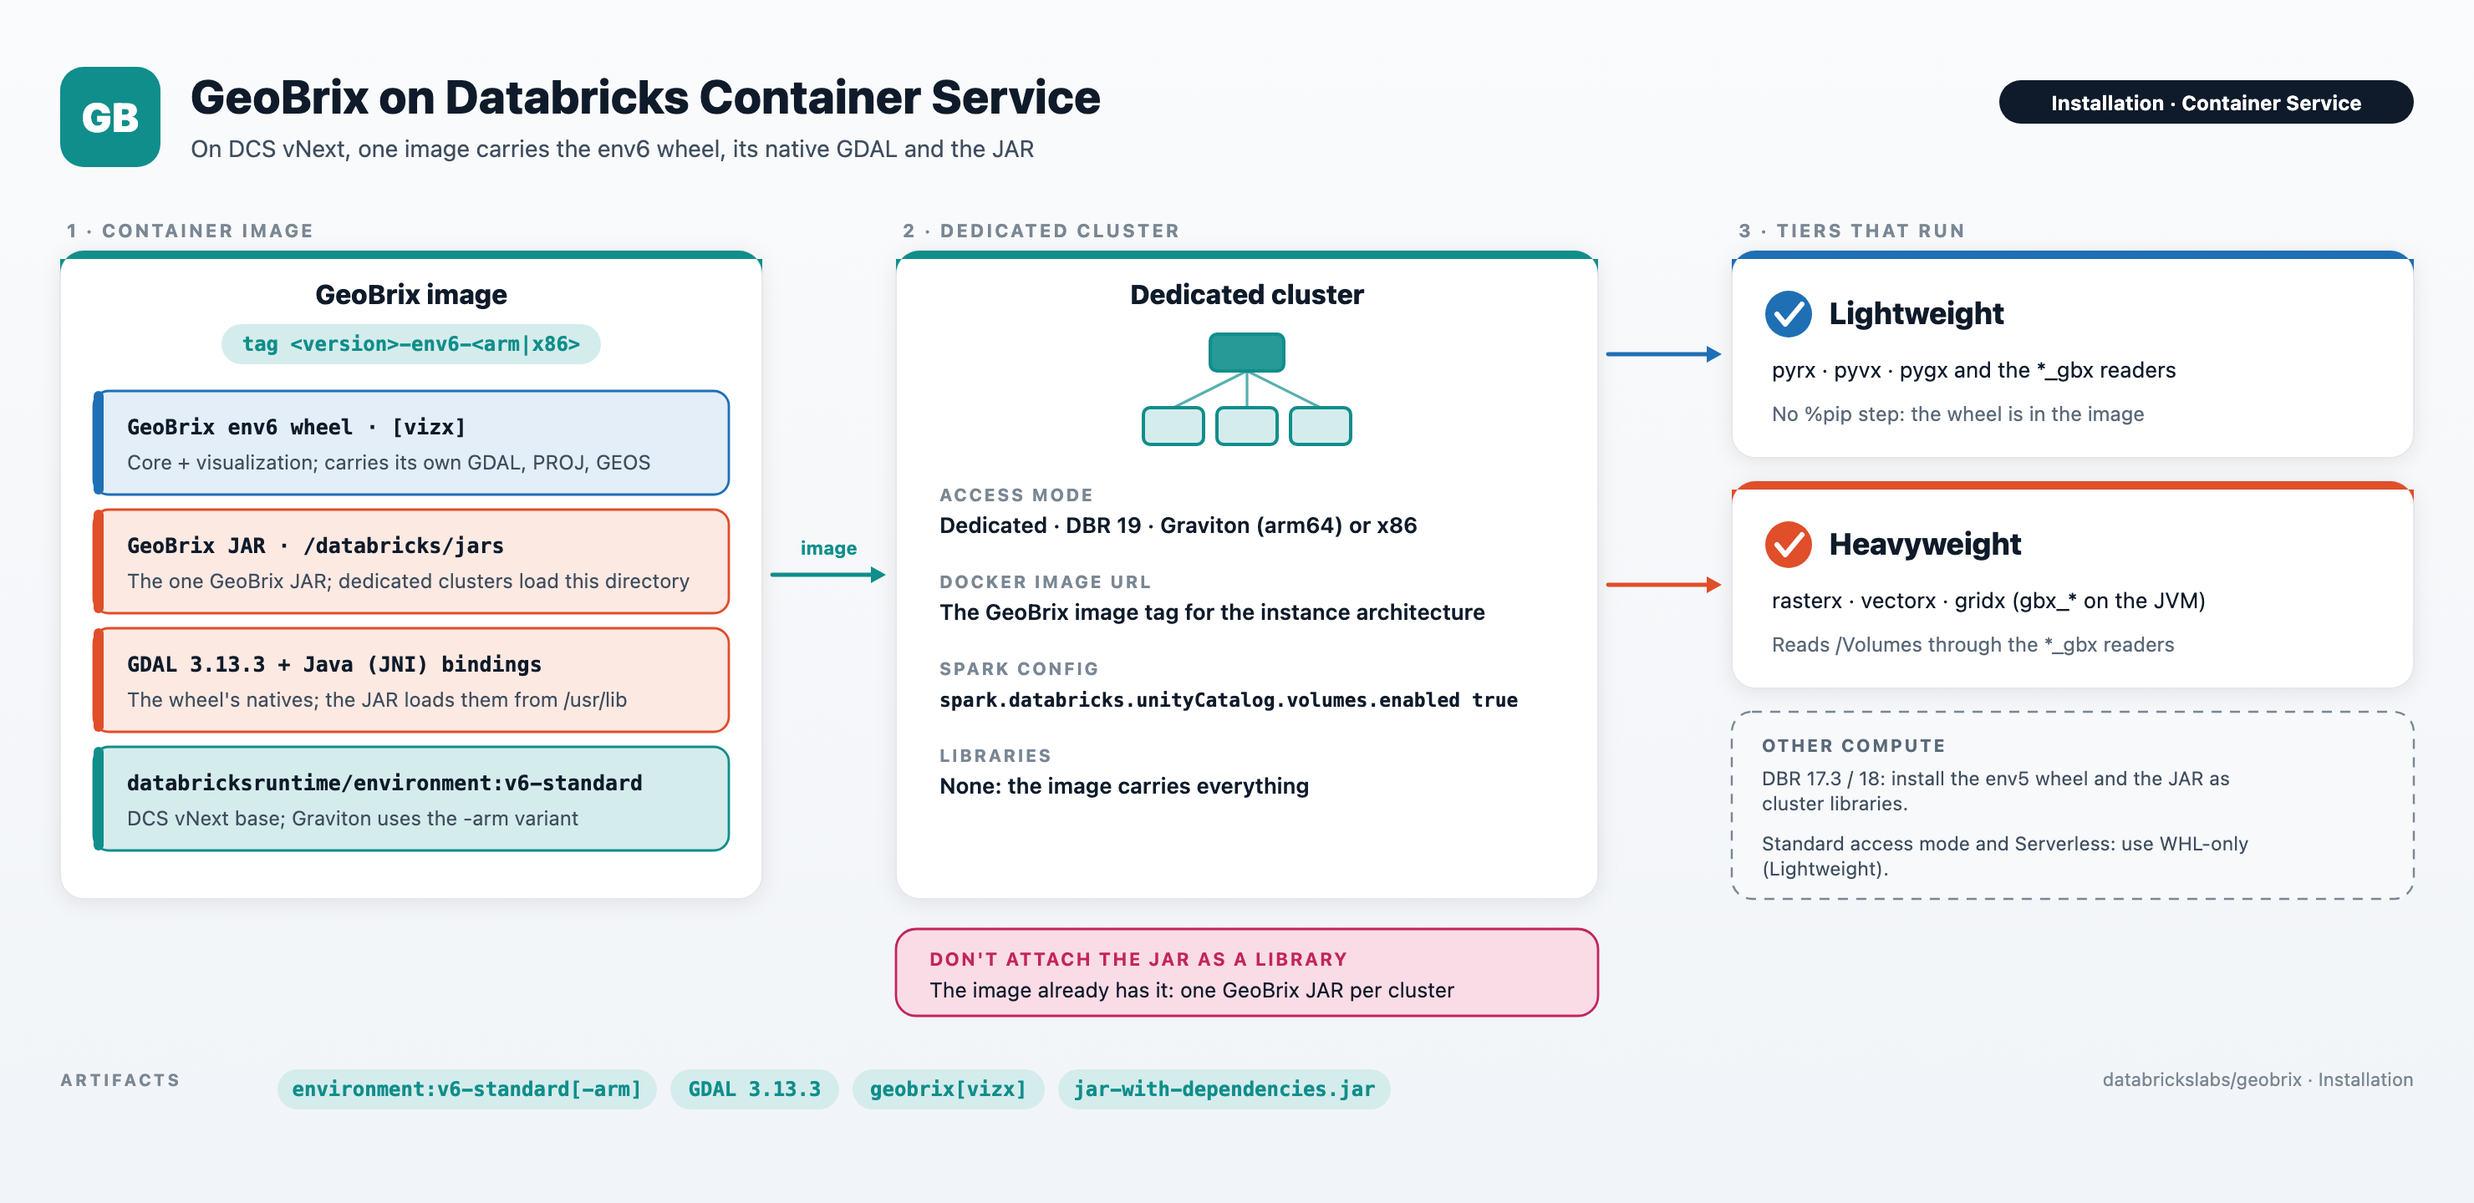
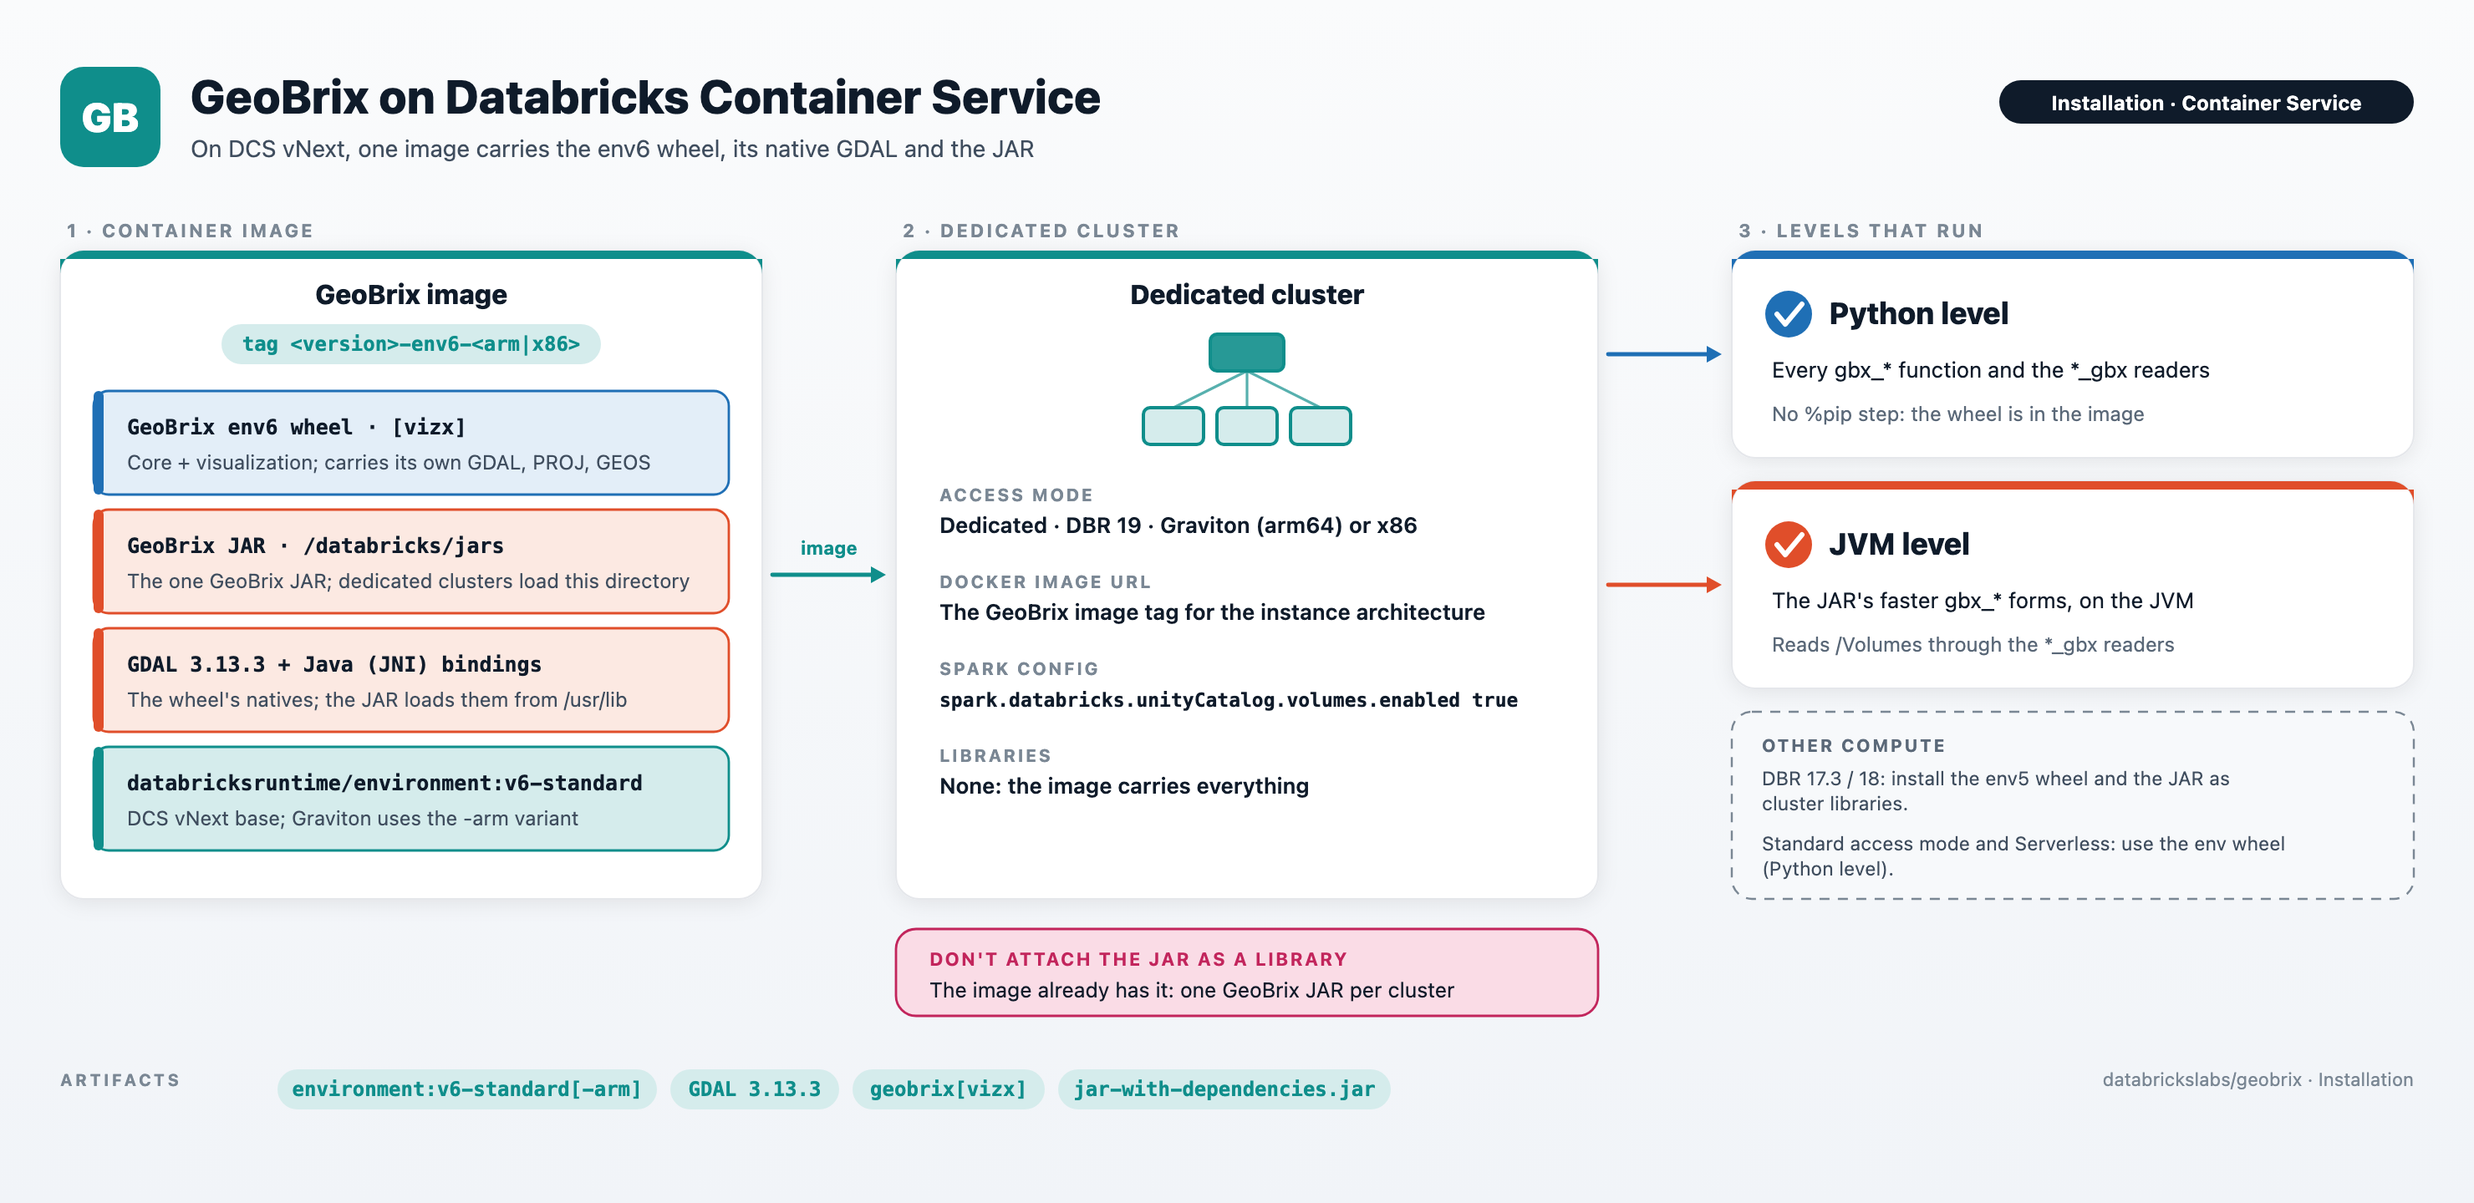
docs: define surfaces, levels and the shorthand in one place
Users met "lightweight" and "heavyweight" as tiers to choose, with
several meanings. The levels page now names the levels (SQL
expression, JVM, Python, Unity Catalog function), separates them from
the surfaces you call, and defines lightweight/heavyweight once as
shorthand in a green tip at the top. Installation and performance
note the shorthand once; the navbar, homepage, README and intro use
level names. The install anchors become #env-wheel and
#env-wheel-and-jar, with the old ids kept as hidden anchors. Rust
coverage: the levels page, installation, README, intro and the four
function entries say where the env wheel's Rust kernels run. The
installation diagrams are regenerated with level chips, and the
unused gbx-tier tab CSS is removed.

diff --git a/docs/src/css/custom.css b/docs/src/css/custom.css
@@ -44,51 +44,10 @@
 
 
 /* --------------------------------------------------------------------------
- * Tier tabs (groupId="gbx-tier"): visually distinguish the HEAVYWEIGHT path.
- *
- * Lightweight is the recommended default and keeps the normal green accent.
- * The tier choice is sticky (shared groupId + ?tier= query param), so a
- * remembered "Heavyweight" selection can otherwise look identical to
- * Lightweight on a fresh page. When Heavyweight (the 2nd tab) is active we
- * recolor the active tab blue (matching the .heavy tier badge, #2545b3) and
- * tint the visible content panel, so "you are on the heavy path" reads at a
- * glance. Scoped to .gbx-tier-tabs so other tab groups are unaffected.
- * ------------------------------------------------------------------------ */
-
-/* Heavyweight tab = 2nd .tabs__item; recolor its active underline + label. */
-.gbx-tier-tabs.tabs .tabs__item:nth-child(2).tabs__item--active {
-  --ifm-tabs-color-active: #2545b3;
-  --ifm-tabs-color-active-border: #2545b3;
-}
-
-/* Tint the visible heavyweight content panel while it is selected.
- * The panel (role=tabpanel) sits under a .margin-top--md wrapper inside
- * .tabs-container; :has() keys the panel styling off which tier tab is
- * active. The wrapper is a descendant, so no direct-child combinator. */
-.tabs-container:has(
-    > .gbx-tier-tabs .tabs__item:nth-child(2).tabs__item--active
-  )
-  div[role='tabpanel']:not([hidden]) {
-  border-left: 3px solid #2545b3;
-  background: #f5f8ff;
-  padding: 0.75rem 1rem;
-  border-radius: 0 4px 4px 0;
-}
-
-[data-theme='dark']
-  .tabs-container:has(
-    > .gbx-tier-tabs .tabs__item:nth-child(2).tabs__item--active
-  )
-  div[role='tabpanel']:not([hidden]) {
-  border-left-color: #6b8cff;
-  background: rgba(107, 140, 255, 0.08);
-}
-
-/* --------------------------------------------------------------------------
  * Per-example language tabs (groupId="gbx-example-lang"): SQL(1) and
  * Python-light(2) keep the default green accent. Python-heavy(3) and
- * Scala-heavy(4) get the blue heavyweight tint — same tokens as
- * .gbx-tier-tabs above. Scoped to .gbx-example-lang-tabs.
+ * Scala-heavy(4) get the blue JVM-level tint (#2545b3). Scoped to
+ * .gbx-example-lang-tabs.
  * ------------------------------------------------------------------------ */
 
 /* Heavy tabs = 3rd + 4th .tabs__item; recolor active underline + label. */

diff --git a/docs/src/pages/index.js b/docs/src/pages/index.js
@@ -104,19 +104,18 @@ export default function Home() {
           <div className="container">
             <div className="row">
               <div className="col col--8 col--offset-2 text--center">
-                <h2>Start lightweight — the recommended raster tier</h2>
+                <h2>Start with the env wheel — every function, everywhere</h2>
                 <p>
-                  The lightweight tier (pyrx) runs the full GeoBrix raster API on pure Python + rasterio:
-                  a single wheel, no JAR and no init script, and it works everywhere — serverless,
-                  standard/shared clusters, ARM, and Lakeflow declarative pipelines. VectorX is
-                  likewise available lightweight (pyvx), as is all of GridX — BNG, quadbin, and
-                  custom grids (pygx). The heavyweight Scala/GDAL tier is there when you need full
-                  GDAL/OGR.
+                  One env wheel runs the full GeoBrix API at the Python level: RasterX, VectorX
+                  and all of GridX (BNG, H3, quadbin and custom grids). It needs no JAR and no init
+                  script, and it works everywhere — Serverless, standard clusters, ARM and Lakeflow
+                  declarative pipelines. On a dedicated cluster, the GeoBrix JAR adds a faster JVM
+                  level for some functions, and GeoBrix picks it for you.
                 </p>
                 <Link
                   className="button button--primary button--md"
                   to="/docs/api/execution-tiers">
-                  Compare Execution Tiers →
+                  Surfaces and levels →
                 </Link>
               </div>
             </div>

diff --git a/docs/docusaurus.config.js b/docs/docusaurus.config.js
@@ -138,7 +138,7 @@ const config = {
           },
           {
             to: '/docs/api/execution-tiers',
-            label: 'Lightweight vs Heavyweight',
+            label: 'Surfaces and levels',
             position: 'left'
           },
           {

diff --git a/resources/images/generators/installation.py b/resources/images/generators/installation.py
@@ -3,8 +3,8 @@
 
 Two free-form diagrams for docs/docs/installation.mdx and its sub-page:
 
-    installation-paths  the three install paths, picked by compute + tier
-    installation-dcs    GeoBrix container image -> dedicated cluster -> tiers
+    installation-paths  the three install paths, picked by compute + level
+    installation-dcs    GeoBrix container image -> dedicated cluster -> levels
 
 Reuses the eo-series / vapor-eyes / genie-map primitive library (card, stripe,
 chip, node, arrow, header/footer helpers), so these sit visually alongside the
@@ -80,10 +80,10 @@ def centered_chip(cx, y, s, theme, *, mono_font=True, h=24):
 
 
 def tier_chips(x, y, tiers):
-    """Row of tier chips ("Lightweight" / "Heavyweight") starting at x."""
+    """Row of level chips ("Python level" / "JVM level") starting at x."""
     out, cx = [], x
     for t in tiers:
-        theme = LIGHT_TIER if t == "Lightweight" else HEAVY_TIER
+        theme = LIGHT_TIER if t == "Python level" else HEAVY_TIER
         svg, w = chip_at(cx, y, t, theme, mono_font=False, h=26)
         out.append(svg)
         cx += w + 10
@@ -202,26 +202,26 @@ def canvas(badge, title, subtitle, pill, theme, body, chips, label="ARTIFACTS"):
 
 PATHS = [
     dict(theme=BLUE, glyph=g_wheel, letter="a",
-         title="WHL-only (Lightweight)", chip="geobrix-<version>+env6 / +env5",
-         branch="Lightweight tier only", badge="RECOMMENDED",
+         title="Env wheel", chip="geobrix-<version>+env6 / +env5",
+         branch="The Python level only", badge="RECOMMENDED",
          runs="Serverless · standard access mode · Lakeflow pipelines · classic clusters · ARM",
          install="The env wheel for the runtime (env5 or env6), from a Volume or the GitHub release",
          extra="Its own GDAL, PROJ and GEOS; no JAR",
-         tiers=["Lightweight"]),
+         tiers=["Python level"]),
     dict(theme=VIOLET, glyph=g_cluster, letter="b",
          title="Cluster libraries", chip="env wheel + GeoBrix JAR",
-         branch="Heavyweight · dedicated cluster", badge=None,
+         branch="Add the JVM level · dedicated cluster", badge=None,
          runs="Dedicated cluster · x86 on DBR 17.3 / 18 / 19 · Graviton on DBR 19",
          install="The env wheel and the GeoBrix JAR, both as cluster libraries from a Volume",
          extra="The wheel's own GDAL serves the JVM too",
-         tiers=["Lightweight", "Heavyweight"]),
+         tiers=["Python level", "JVM level"]),
     dict(theme=TEAL, glyph=g_container, letter="c",
          title="Databricks Container Service", chip="GeoBrix container image",
-         branch="Heavyweight · arm64 or x86 · DBR 19", badge=None,
+         branch="Add the JVM level · arm64 or x86 · DBR 19", badge=None,
          runs="Dedicated cluster · Graviton (arm64) or x86 · DBR 19",
          install="A GeoBrix image with the env6 wheel, its native GDAL and the JAR",
          extra="No library to attach: one GeoBrix JAR per cluster",
-         tiers=["Lightweight", "Heavyweight"]),
+         tiers=["Python level", "JVM level"]),
 ]
 
 
@@ -232,7 +232,7 @@ def body_paths():
     qx = (CANVAS_W - qw) / 2
     out.append(f'<rect x="{qx}" y="{qy}" rx="22" ry="22" width="{qw}" height="{qh}" '
                f'fill="{C_INK}"/>')
-    out.append(text(CANVAS_W / 2, qy + 28, "Which tier do you need, and on which compute?",
+    out.append(text(CANVAS_W / 2, qy + 28, "Which levels do you need, and on which compute?",
                     size=16, weight=700, fill="#FFFFFF", anchor="middle"))
 
     n, gap = len(PATHS), 30
@@ -274,7 +274,7 @@ def body_paths():
                               size=14, line_h=19))
         out.extend(wrap_left(x + 24, ly + 142, cw - 48, p["extra"], size=13, fill=C_MUTED_2))
         tsvg, _ = tier_chips(x + 24, cy0 + ch - 40, p["tiers"])
-        out.append(text(x + cw - 24, cy0 + ch - 22, "TIERS", size=10.5, weight=700,
+        out.append(text(x + cw - 24, cy0 + ch - 22, "LEVELS", size=10.5, weight=700,
                         fill=C_MUTED_3, anchor="end", letter_spacing="1.2"))
         out.append(tsvg)
     return "".join(out)
@@ -334,13 +334,13 @@ def body_dcs():
     out.append(text((x1 + w1 + x2) / 2, top + h / 2 - 12, "image", size=11, weight=700,
                     fill=TEAL["accent"], anchor="middle"))
 
-    # --- column 3: tiers that run ----------------------------------------------
+    # --- column 3: levels that run ----------------------------------------------
     x3, w3 = 1036, CANVAS_W - PAD - 1036
-    out.append(col_label(x3 + 4, top - 8, "3 · TIERS THAT RUN", C_MUTED_3))
+    out.append(col_label(x3 + 4, top - 8, "3 · LEVELS THAT RUN", C_MUTED_3))
     tiers = [
-        (LIGHT_TIER, "Lightweight", "pyrx · pyvx · pygx and the *_gbx readers",
+        (LIGHT_TIER, "Python level", "Every gbx_* function and the *_gbx readers",
          "No %pip step: the wheel is in the image"),
-        (HEAVY_TIER, "Heavyweight", "rasterx · vectorx · gridx (gbx_* on the JVM)",
+        (HEAVY_TIER, "JVM level", "The JAR's faster gbx_* forms, on the JVM",
          "Reads /Volumes through the *_gbx readers"),
     ]
     th_h, th_gap, ty = 124, 14, top
@@ -367,7 +367,7 @@ def body_dcs():
     out.append(text(sx + 18, sy + 24, "OTHER COMPUTE", size=10.5, weight=700,
                     fill=C_MUTED_2, letter_spacing="1.2"))
     for yy, msg in ((44, "DBR 17.3 / 18: install the env5 wheel and the JAR as cluster libraries."),
-                    (83, "Standard access mode and Serverless: use WHL-only (Lightweight).")):
+                    (83, "Standard access mode and Serverless: use the env wheel (Python level).")):
         out.extend(wrap_left(sx + 18, sy + yy, sw - 36, msg, size=11.5, fill=C_MUTED,
                              line_h=15))
     return "".join(out)
@@ -377,7 +377,7 @@ DIAGRAMS = {
     "paths": dict(
         badge="GB", theme=BLUE,
         title="Three ways to install GeoBrix",
-        subtitle="Pick the path that matches the tier you need and the compute you run on",
+        subtitle="Pick the path that matches the levels you need and the compute you run on",
         pill="Installation  ·  Paths",
         body=body_paths,
         chips=["geobrix-<version>+env<N>-py3-none-any.whl",

diff --git a/README.md b/README.md
@@ -32,10 +32,11 @@
 
 ## Implementations
 
-GeoBrix has one function set and one Python API. `gbx.register(spark)` picks the faster implementation of each function on the compute, and says why when it falls back.
+GeoBrix has one function set. You call it from SQL, Python, Unity Catalog SQL or Scala, and `gbx.register(spark)` picks the level that runs each function on the compute. It says why when it falls back. *Lightweight* and *heavyweight* are short names for the Python and JVM [levels](https://databrickslabs.github.io/geobrix/docs/api/execution-tiers#the-levels).
 
-- **Lightweight (Python)** — runs every function in Python on [rasterio](https://rasterio.readthedocs.io/)/[pyogrio](https://pyogrio.readthedocs.io/)/[shapely](https://shapely.readthedocs.io/), **no JAR, no init script, no native GDAL bundle**. Runs on **Serverless**, standard (shared), Lakeflow pipelines, and **ARM**.
-- **Heavyweight (JVM)** — Scala + native GDAL on dedicated clusters, where it is faster. Add the GeoBrix JAR (`gbx.stage_jar` stages it from the env wheel) as a cluster library, or use the GeoBrix [DCS image](https://databrickslabs.github.io/geobrix/docs/installation/dcs); see [Choose an install path](https://databrickslabs.github.io/geobrix/docs/installation#choose-an-install-path). **The code does not change** between the two.
+- **Python level (lightweight)** — runs every function in Python on [rasterio](https://rasterio.readthedocs.io/)/[pyogrio](https://pyogrio.readthedocs.io/)/[shapely](https://shapely.readthedocs.io/), **no JAR and no init script**. The env wheel carries its own GDAL, PROJ and GEOS. Runs on **Serverless**, standard (shared), Lakeflow pipelines, and **ARM**.
+- **JVM level (heavyweight)** — Scala + GDAL on dedicated clusters, where it is faster. Add the GeoBrix JAR (`gbx.stage_jar` stages it from the env wheel) as a cluster library, or use the GeoBrix [DCS image](https://databrickslabs.github.io/geobrix/docs/installation/dcs); see [Choose an install path](https://databrickslabs.github.io/geobrix/docs/installation#choose-an-install-path). **The code does not change** between the two.
+- **Native kernels where measured faster** — GDAL, plus Rust for BNG cell encoding and TIN triangulation, both in the env wheel. We continue to assess where Rust can help further.
 
 ## Packages
 
@@ -60,9 +61,9 @@ GeoBrix supports the following Databricks Runtime releases:
 
 A **single JAR** runs on 17.3, 18, and 19: Scala 2.13 minor versions are binary-compatible, the JAR is compiled to Java-17 bytecode so it loads on all three JVMs, and Spark is a `provided` dependency.
 
-On Databricks, GeoBrix installs as the **env wheel** for the runtime, with no light extra to pick: `geobrix-<version>+env6-py3-none-any.whl` for Serverless environment 6 (recommended), DBR 19, SQL warehouses and UC functions; `geobrix-<version>+env5-py3-none-any.whl` for Serverless environment 5, DBR 17.3 / 18 and Lakeflow pipelines. Each carries its own GDAL, PROJ and GEOS. See [Installation](https://databrickslabs.github.io/geobrix/docs/installation#whl-only) for the wheels and their extras.
+On Databricks, GeoBrix installs as the **env wheel** for the runtime, with no light extra to pick: `geobrix-<version>+env6-py3-none-any.whl` for Serverless environment 6 (recommended), DBR 19, SQL warehouses and UC functions; `geobrix-<version>+env5-py3-none-any.whl` for Serverless environment 5, DBR 17.3 / 18 and Lakeflow pipelines. Each carries its own GDAL, PROJ and GEOS. See [Installation](https://databrickslabs.github.io/geobrix/docs/installation#env-wheel) for the wheels and their extras.
 
-## Quick start (lightweight)
+## Quick start
 
 Stage the env wheel for your runtime (a [Releases](https://github.com/databrickslabs/geobrix/releases) artifact, not on PyPI) in a Unity Catalog Volume, then install it (Serverless env 6, recommended; add feature extras such as `[vizx]` on the same line):
 
@@ -133,7 +134,7 @@ Readers and writers (`*_gbx`) are pure Python and need no JAR. Full options, out
 
 The **sharded GeoJSONL** writer writes one shard per partition, with no driver merge. It is the recommended vector writer at any scale.
 
-Light vector readers/writers exchange geometry as **WKB/WKT** with companion `*_srid` columns — convert to/from Databricks `GEOMETRY` with `st_geomfromwkb` / `st_aswkb` (see [Databricks Spatial](https://databrickslabs.github.io/geobrix/docs/databricks-spatial)).
+The vector readers/writers exchange geometry as **WKB/WKT** with companion `*_srid` columns — convert to/from Databricks `GEOMETRY` with `st_geomfromwkb` / `st_aswkb` (see [Databricks Spatial](https://databrickslabs.github.io/geobrix/docs/databricks-spatial)).
 
 ## Examples
 
